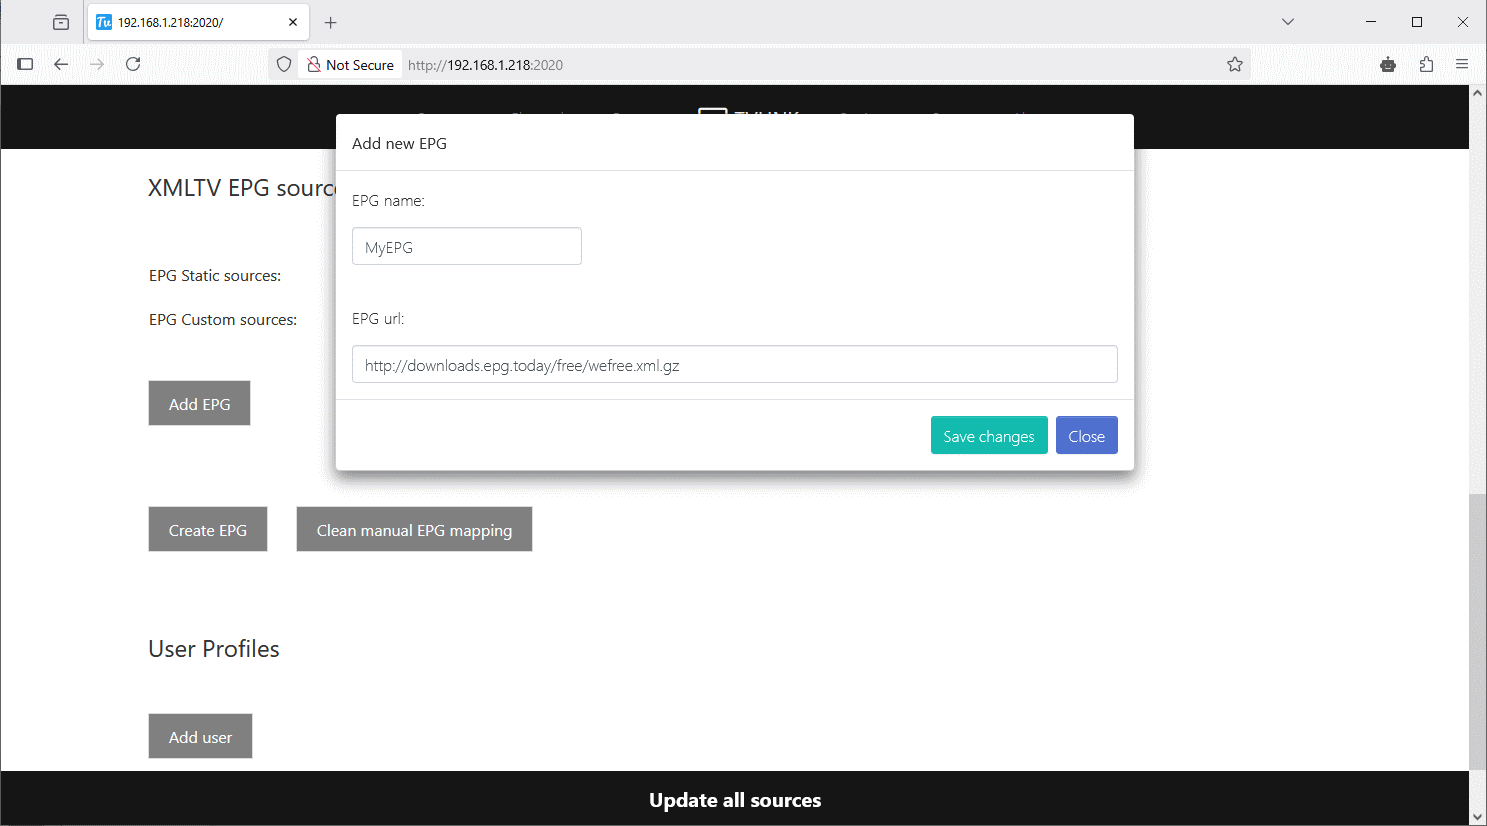
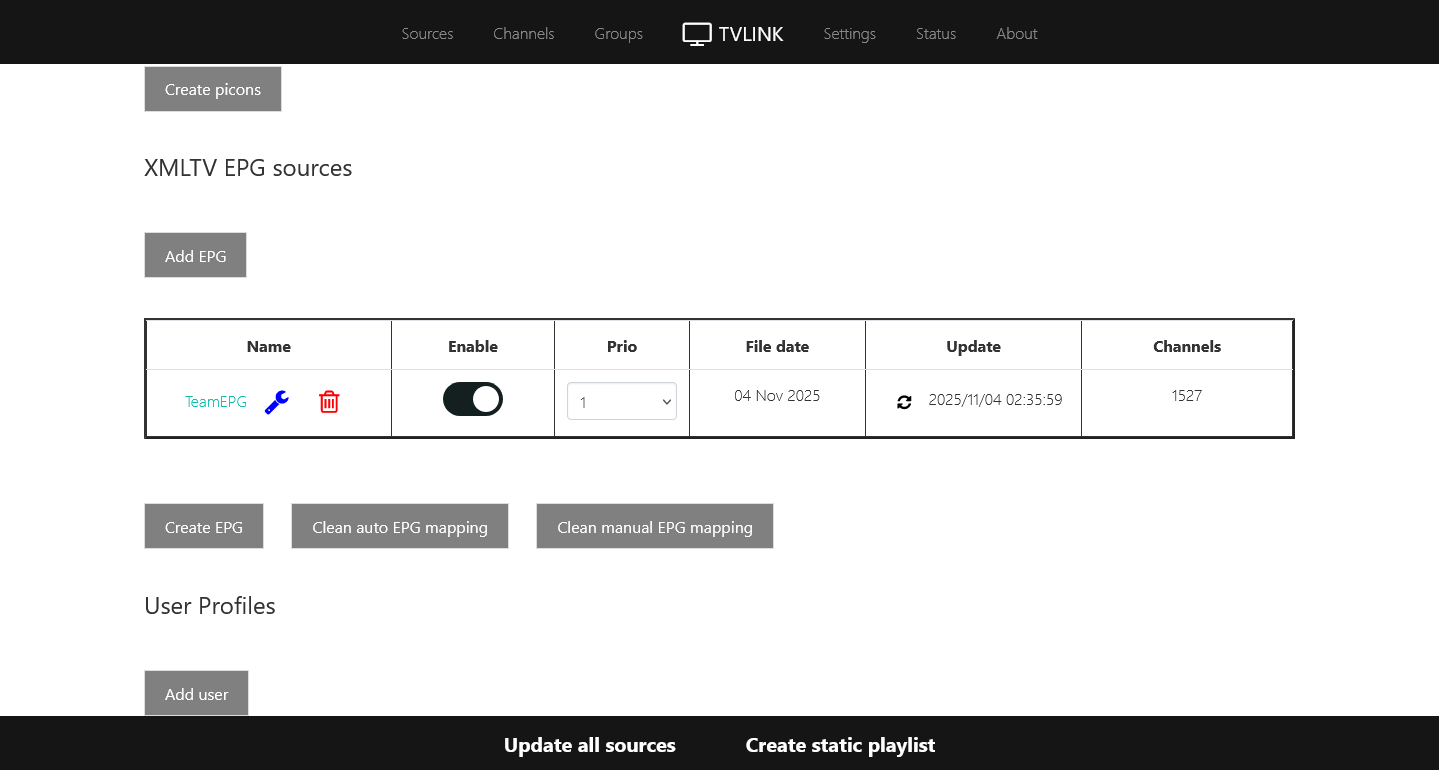
tvlink/epg: change description

diff --git a/content.uk/docs/tvlink/docs/epg.md b/content.uk/docs/tvlink/docs/epg.md
@@ -9,29 +9,22 @@ weight: 14
 Налаштування EPG необхідно проводити після того, як ви додали канали в «TVLINK» (channel mapping).
 {{% /hint %}}
 
-Ви можете використовувати джерела EPG, які вже присутні в програмі (EPG Static sources),
-або створити свої (EPG Custom sources). Активуйте потрібний перемикач.
+Для створення джерела EPG натисніть кнопку «Add EPG» і заповніть форму «Add new EPG».
 
 <p align="center">
   <a href="/tvlink/epg/01.png"><img src="/tvlink/epg/01.png" width="480"/></a>
 </p>
 
-Для створення власного джерела натисніть кнопку «Add EPG» і заповніть форму «Add new EPG».
++ «EPG name» — це довільна назва на ваш вибір. Вона повинна бути латинськими літерами, без спеціальних символів (пробілів, тире тощо) і не може починатися з цифри.
++ «EPG url» — адреса XMLTV-файлу. Файл може бути заархівованим (у форматі .gz або .tar.gz) або неархівованим (.xmltv). Якщо це локальний файл, адреса повинна починатися з префікса «file://».
+
+Натисніть «Save changes», щоб зберегти налаштування.
 
 <p align="center">
   <a href="/tvlink/epg/02.png"><img src="/tvlink/epg/02.png" width="480"/></a>
 </p>
 
-+ «EPG name» — будь-яка назва на ваш вибір. Вона має бути латинськими літерами, без спеціальних символів (пробілів, тире та інше) та не може починатися з цифри.
-+ «EPG url» — адреса XMLTV-файлу. Може бути заархівованим (.tar.gz) або не заархівованим (.xmltv).
-
-Натисніть «Save changes», щоб зберегти налаштування.
-
-<p align="center">
-  <a href="/tvlink/epg/03.png"><img src="/tvlink/epg/03.png" width="480"/></a>
-</p>
-
-### Опції
+### Стовпці таблиці
 
 + «Name» — ім’я джерела та посилання (коли джерело активне й оновлене) на редагування (співставлення) каналів цього джерела.
 + «Enable» — увімкнення/вимкнення джерела.
@@ -41,9 +34,22 @@ weight: 14
 Це потрібно, щоб ви могли вручну зіставити ті канали, які «TVLINK» не зміг зіставити автоматично, або змінити автоматичне зіставлення, якщо це потрібно.
 + «Channels» — загальна кількість назв каналів у джерелі. Це лише інформація, оскільки не всі канали, вказані в джерелі, можуть містити програму.
 
+Синя іконка у стовпці «Name» відображає вікно налаштувань.
+
+<p align="center">
+  <a href="/tvlink/epg/03.png"><img src="/tvlink/epg/03.png" width="480"/></a>
+</p>
+
+Тут ви можете за необхідності змінити «EPG url», а також модифікувати назви каналів («Modify channel names») використовуючи <a target='_blank' href="https://docs.python.org/3/howto/regex.html">регулярні вирази</a>.
+
+У полі «change from (regular expression)» введіть те, що хочете змінити, а в полі «to» — те, на що хочете змінити.
+
+Регулярний вираз (наведений вище) видаляє префікс "UA:" з назв каналів. Наприклад: було «UA: Сhannel 5», стане «Сhannel 5».
+
 ### Кнопки
 
 + «Create EPG» — створює програму. XMLTV-файл буде доступний за адресою: «http://ip-address:port/xmltv»
++ «Clean auto EPG mapping» — очищає всі зіставлення, які «TVLINK» створив автоматично.
 + «Clean manual EPG mapping» — очищає всі зіставлення, які ви зробили вручну.
 
 Після того, як ви натиснули кнопку в колонці «Update», можна перейти за посиланням з колонки «Name» і зіставити канали, які не зміг зіставити «TVLINK», або змінити зіставлення каналів, які вас не влаштовують.
@@ -65,7 +71,5 @@ weight: 14
 Щоб спростити завдання, потрібно ввести перші літери з назви каналу й список переміститься у потрібну позицію.
 
 Після налаштування поверніться на сторінку «Sources» і натисніть кнопку «Create EPG».
-
-У джерелах «EPG Static sources» ви маєте можливість змінити URL-адресу, якщо це необхідно. Для цього натисніть іконку «Edit» біля назви джерела.
 
 Періодичність оновлення джерел EPG задається на сторінці «Settings» у підрозділі «EPG settings».

diff --git a/content.en/docs/tvlink/docs/epg.md b/content.en/docs/tvlink/docs/epg.md
@@ -9,29 +9,22 @@ weight: 14
 EPG configuration needs to be performed after you have added channels in «TVLINK» (channel mapping).
 {{% /hint %}}
 
-You can use the EPG sources that are already present in the program (EPG Static sources),
-or create your own (EPG Custom sources). Activate the required switch.
+To create an EPG source, click the «Add EPG» button and fill in the «Add new EPG» form.
 
 <p align="center">
   <a href="/tvlink/epg/01.png"><img src="/tvlink/epg/01.png" width="480"/></a>
 </p>
 
-To create a custom source, click the «Add EPG» button and complete the «Add new EPG» form.
++ «EPG name» — This is a custom name of your choice. It must be in Latin letters, contain no special characters (such as spaces, hyphens, etc.), and cannot start with a number.
++ «EPG url» — This is the address of the XMLTV file. The file may be archived (in .gz or .tar.gz format) or unarchived (.xmltv). If this is a local file, the address must begin with the «file://» prefix.
+
+Click «Save changes» to save the settings.
 
 <p align="center">
   <a href="/tvlink/epg/02.png"><img src="/tvlink/epg/02.png" width="480"/></a>
 </p>
 
-+ «EPG name» — any name of your choice. It must consist of Latin letters, without special characters (spaces, hyphens, etc.) and cannot start with a digit.
-+ «EPG url» — the address of the XMLTV file. It can be archived (.tar.gz) or not archived (.xmltv).
-
-Click «Save changes» to save the settings.
-
-<p align="center">
-  <a href="/tvlink/epg/03.png"><img src="/tvlink/epg/03.png" width="480"/></a>
-</p>
-
-### Options
+### Table Columns
 
 + «Name» — the name of the source and a link (when the source is active and updated) to edit (match) channels for this source.
 + «Enable» — enabling/disabling the source.
@@ -45,9 +38,22 @@ This allows you to manually match those channels that «TVLINK» could not match
 + «Channels» — the total number of channel names in the source is displayed here.
 This is for informational purposes only, as not all channels listed in the source necessarily include program data.
 
+The blue icon in the «Name» column displays the settings window.
+
+<p align="center">
+  <a href="/tvlink/epg/03.png"><img src="/tvlink/epg/03.png" width="480"/></a>
+</p>
+
+Here you can optionally change the «EPG url», and also modify channel names («Modify channel names») using <a target='_blank' href="https://docs.python.org/3/howto/regex.html">regular expressions</a>.
+
+In the «change from (regular expression)» field, enter what you want to change, and in the «to» field, enter what you want to change it to.
+
+The regular expression (shown above) removes the "UA:" prefix from channel names. For example: it was «UA: Сhannel 5», it will become «Сhannel 5».
+
 ### Buttons
 
 + «Create EPG» — generates the program. The XMLTV file will be available at: «http://ip-address:port/xmltv»
++ «Clean auto EPG mapping» — clears all mappings that «TVLINK» created automatically.
 + «Clean manual EPG mapping» — clears all the mappings you have done manually.
 
 After you have clicked the button in the «Update» column, you can follow the link from the «Name» column and match the channels that «TVLINK» could not match,
@@ -70,7 +76,5 @@ Since the drop-down list of the «Manual EPG mapping» column contains all the c
 To simplify the task, you need to enter the first letters of the channel name and the list will move to the desired position.
 
 After setting up, return to the «Sources» page and click the «Create EPG» button.
-
-In the «EPG Static sources», you have the option to change the URL address if needed. To do this, click the «Edit» icon next to the source name.
 
 The update frequency of EPG sources is set on the «Settings» page in the «EPG settings» section.
